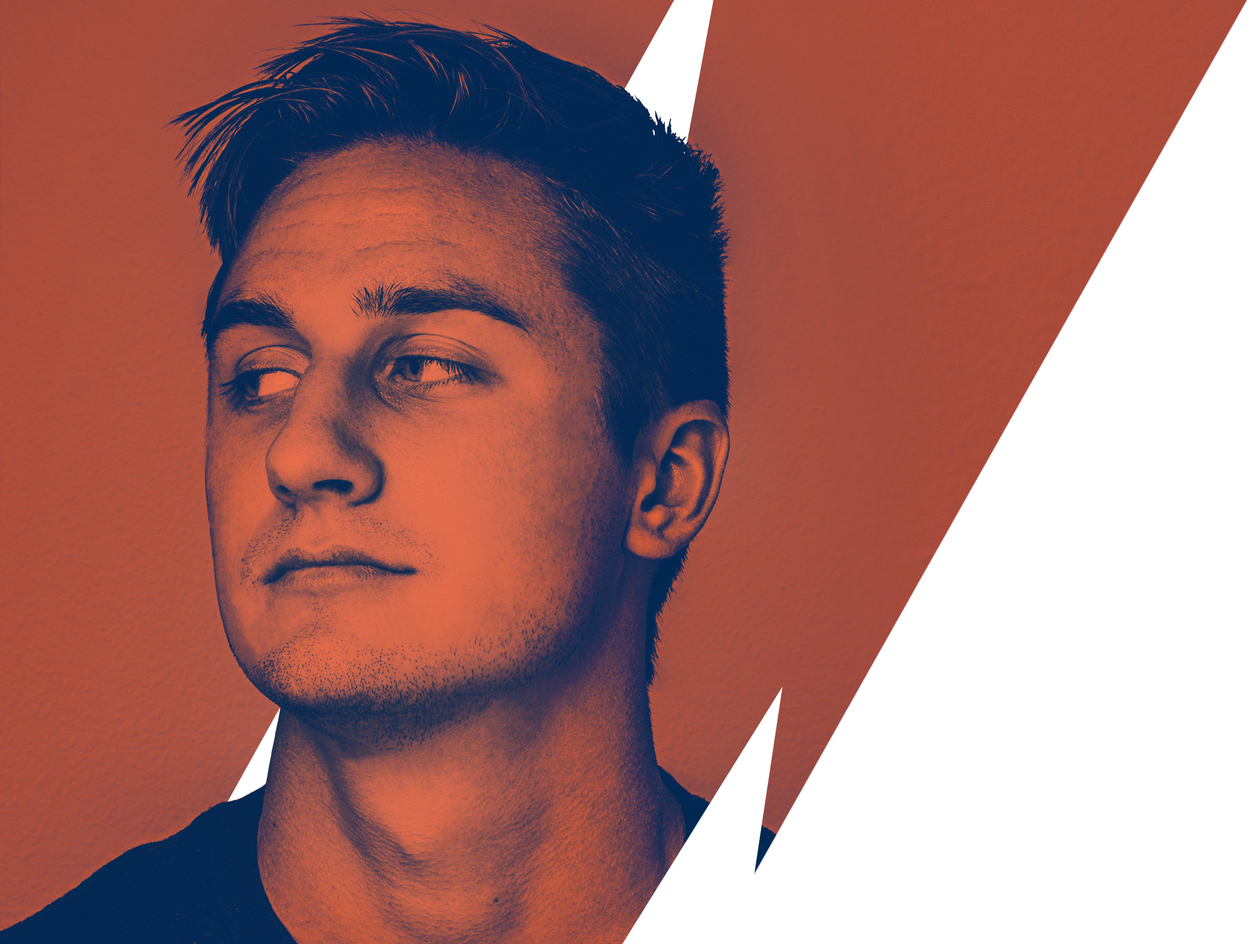
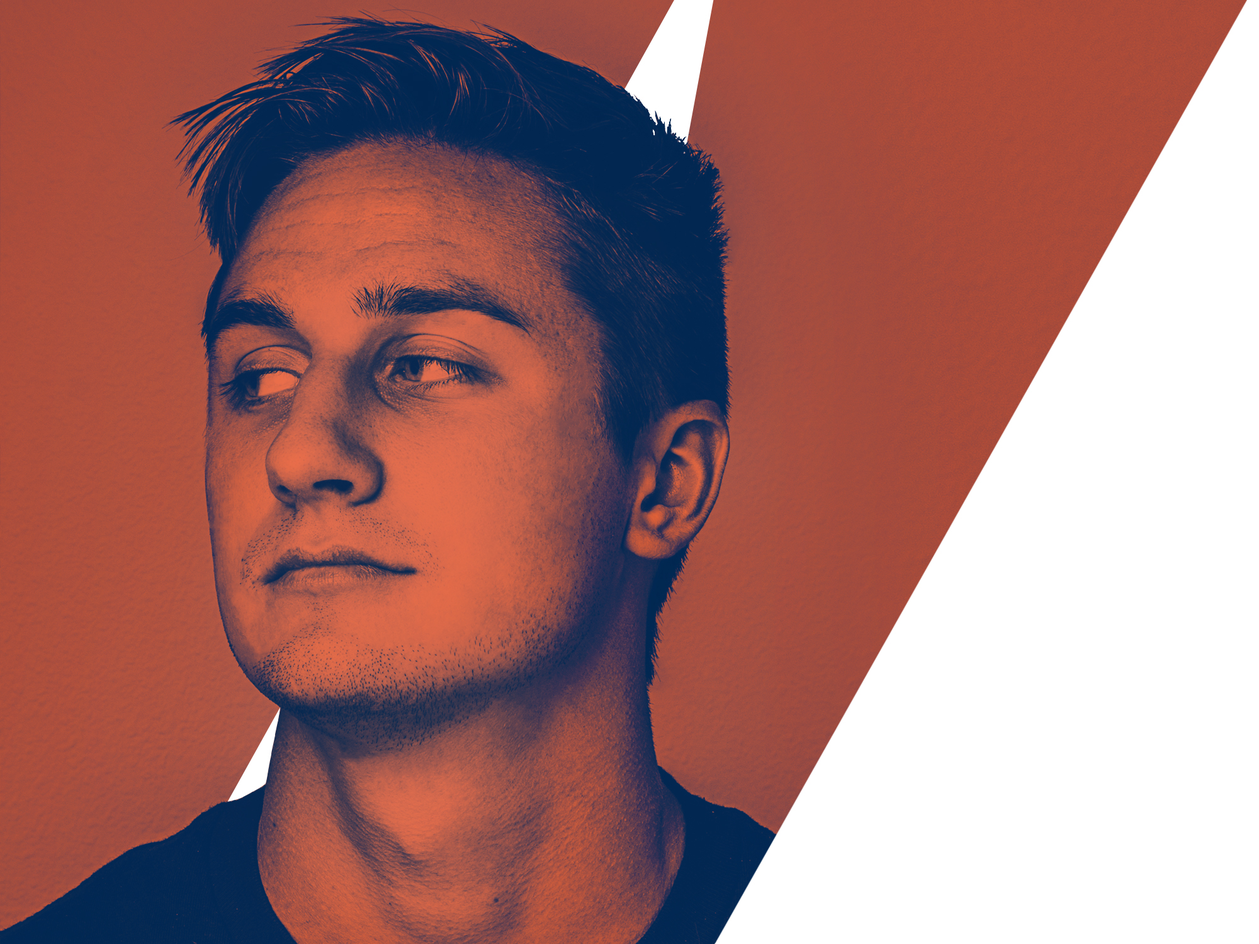
Creating custom solution for the small slice in the header that is based off of the second photo post and increased animation time for header elements

Changed region(s): [[0.496, 0.736, 0.62, 1.0]]

diff --git a/sites/all/themes/eshell/styles/styles.min.css b/sites/all/themes/eshell/styles/styles.min.css
@@ -1,2 +1,2 @@
-html,mark{color:#000}*,:after,:before,input[type=radio],input[type=checkbox]{padding:0;box-sizing:border-box}body,html{background:#fff}button,input,p,textarea{width:100%;font-size:1.2vw}li,ul{list-style:none}h1,p{color:#333}#site,.item-list,body,button,html,input,p,textarea{width:100%}.item-list,body,html,img,li,p{float:left}article,aside,details,figcaption,figure,footer,header,hgroup,nav,section,summary{display:block}audio,canvas,video{display:inline-block}audio:not([controls]){display:none;height:0}[hidden],template{display:none}html{-webkit-text-size-adjust:100%;-ms-text-size-adjust:100%}button,html,input,select,textarea{font-family:sans-serif}body,figure{margin:0}a{background:0 0;color:#07274f;text-decoration:none}a:focus{outline:dotted thin}a:active,a:hover{outline:0}h3{font-size:1.17em;margin:1em 0}h4{font-size:1em;margin:1.33em 0}h5{font-size:.83em;margin:1.67em 0}h6{font-size:.75em;margin:2.33em 0}abbr[title]{border-bottom:1px dotted}b,strong{font-weight:700}dfn{font-style:italic}mark{background:#ff0}code,kbd,pre,samp{font-family:monospace,serif;font-size:1em}pre{white-space:pre;white-space:pre-wrap;word-wrap:break-word}q{quotes:"\201C" "\201D" "\2018" "\2019"}q:after,q:before{content:'';content:none}small{font-size:80%}sub,sup{font-size:75%;line-height:0;position:relative;vertical-align:baseline}sup{top:-.5em}sub{bottom:-.25em}img{border:0;max-width:100%;height:auto}svg:not(:root){overflow:hidden}fieldset{border:1px solid silver;margin:0 2px;padding:.35em .625em .75em}legend{border:0;padding:0;white-space:normal}button,input,select,textarea{font-family:inherit;font-size:100%;margin:0;vertical-align:baseline}.node-article .node-title a,body,h1,html,p{font-family:'Lato',sans-serif}button,input{line-height:normal}button,select{text-transform:none}button,html input[type=button],input[type=reset],input[type=submit]{-webkit-appearance:button;cursor:pointer}button[disabled],input[disabled]{cursor:default}button::-moz-focus-inner,input::-moz-focus-inner{border:0;padding:0}textarea{overflow:auto;vertical-align:top}table{border-collapse:collapse;border-spacing:0}input[type=search]{-webkit-appearance:textfield;box-sizing:content-box}input[type=search]::-webkit-search-cancel-button,input[type=search]::-webkit-search-decoration{-webkit-appearance:none}*,:after,:before{margin:0}body,html{height:100%;padding:0;margin:0;font-size:16px;font-smooth:always;font-smoothing:subpixel-antialiased;text-rendering:optimizeLegibility}:focus{outline:0}#admin-menu{box-shadow:none}button,input,textarea{outline:0;border:0;padding:1vw;border-radius:3px;line-height:1.5;-webkit-appearance:none;-webkit-transition:all .2s ease;transition:all .2s ease}button:focus,button:hover,input:focus,input:hover,textarea:focus,textarea:hover{-webkit-transition:all .2s ease;transition:all .2s ease}input[type=submit]{color:#fff;background:#53b3c7;border-radius:47px;text-transform:uppercase}.form-item{margin:0 0 .5rem}h1,h2{margin:0}.form-item input{background:rgba(255,255,255,.85)}.form-item input:focus,.form-item input:hover{background:rgba(255,255,255,.95)}p{font-weight:400;line-height:2;margin:1vw 0}ul{padding:0}li{margin:auto}h1{font-size:4vw;font-weight:900;padding:.5em 0 0}h2{font-size:1.5em}.field-name-body a,.field-name-field-body a{color:#07274f;overflow:hidden;font-weight:500;position:relative;display:inline-block;outline:0;vertical-align:bottom;text-decoration:none;word-spacing:.25em;margin-right:.2em}.field-name-body a::before,.field-name-field-body a::before{content:'';position:absolute;bottom:0;left:0;z-index:-1;width:100%;height:1px;background:#07274f;-webkit-transition:-webkit-transform .2s;transition:transform .2s;-webkit-transform:scaleY(.5) translateX(-105%);-ms-transform:scaleY(.5) translateX(-105%);transform:scaleY(.5) translateX(-105%)}.field-name-body a::after,.field-name-body a::before,.field-name-field-body a::after,.field-name-field-body a::before{pointer-events:none;-webkit-backface-visibility:hidden;backface-visibility:hidden}.field-name-body a:focus::before,.field-name-body a:hover::before,.field-name-field-body a:focus::before,.field-name-field-body a:hover::before{-webkit-transform:scaleY(1) translateX(0);-ms-transform:scaleY(1) translateX(0);transform:scaleY(1) translateX(0)}#site{z-index:10;display:inline-block;height:100%}.messages{padding:1rem;background:#2e2f33;color:#f3d5ae}.messages a{color:#f3d5ae;text-decoration:underline}.messages.error{background:#e9704f;color:#fff}.messages.error a{color:#fff;text-decoration:underline}.pager{float:right;width:auto;font-size:1em;line-height:1;text-transform:capitalize;background:#fff}.pager li{float:left}.pager li.pager-current{background:#07274f;color:#fff}.pager li a{display:block;padding:1.5em;float:left;-webkit-transition:all .2s ease;transition:all .2s ease}.pager li a:active,.pager li a:hover{border:0;color:#fff;background:#07274f;-webkit-transition:all 0s ease;transition:all 0s ease}.pager .pager-current{display:block;padding:1.5em;float:left;-webkit-transition:all .2s ease;transition:all .2s ease}.pager-next,.pager-previous{display:none}#header #intro,#header #profile,.page-user-login #user-login{display:-webkit-box;display:-webkit-flex;display:-ms-flexbox}.pager-ellipsis{padding:1.5em .5em;color:#07274f}@-webkit-keyframes fadeIn{0%{opacity:0;margin-top:-.5rem}100%{opacity:1;margin-top:0}}@keyframes fadeIn{0%{opacity:0;margin-top:-.5rem}100%{opacity:1;margin-top:0}}@-webkit-keyframes fadeFromLeft{0%{opacity:0;margin-left:7.5vw}100%{opacity:1;margin-left:8vw}}@keyframes fadeFromLeft{0%{opacity:0;margin-left:7.5vw}100%{opacity:1;margin-left:8vw}}@-webkit-keyframes fadeFromRight{0%{opacity:0;margin-right:-.5rem}100%{opacity:1;margin-right:0}}@keyframes fadeFromRight{0%{opacity:0;margin-right:-.5rem}100%{opacity:1;margin-right:0}}#header{float:left;width:100%}#header #header-container{float:left;height:calc(50vw - .9375rem);width:100%;position:relative;background:#fff;overflow:hidden}#header #profile{position:absolute;z-index:1;left:0;top:0;width:66.66666%;height:50vw;display:flex;-webkit-box-align:center;-webkit-align-items:center;-ms-flex-align:center;align-items:center}#header #headshot{z-index:2;position:absolute;width:100%;height:100%;top:0;left:0}#header #logo{z-index:5;width:33.25vw;margin-left:8vw;-webkit-animation:fadeFromLeft 1s ease-in-out;animation:fadeFromLeft 1s ease-in-out}#header #intro{position:absolute;z-index:3;right:0;top:0;width:50%;height:50vw;display:flex;-webkit-box-align:center;-webkit-align-items:center;-ms-flex-align:center;align-items:center;-webkit-box-pack:center;-webkit-justify-content:center;-ms-flex-pack:center;justify-content:center;-webkit-animation:fadeFromRight 1s ease-in-out;animation:fadeFromRight 1s ease-in-out}#header #intro .content{padding:0 10vw;text-align:justify}#header #intro .content p{color:#2e2f33;font-size:1.3vw;line-height:2.2}#header #learn-more{position:absolute;bottom:22.5%;right:calc(50% - 5.25rem)}#header #learn-more a{font-size:.9rem;padding:.75rem 2.5rem;border-radius:43px;color:#fff;background:#53b3c7;text-transform:uppercase}#header #learn-more a:focus,#header #learn-more a:hover,.page-user-login{background:-webkit-linear-gradient(135deg,#07274f 0,#e9704f 100%);background:linear-gradient(-45deg,#07274f 0,#e9704f 100%)}.page-user-login #user-login{height:100%;width:100%;display:flex;-webkit-box-orient:vertical;-webkit-box-direction:normal;-webkit-flex-direction:columns;-ms-flex-direction:columns;flex-direction:columns;-webkit-box-pack:center;-webkit-justify-content:center;-ms-flex-pack:center;justify-content:center;-webkit-box-align:center;-webkit-align-items:center;-ms-flex-align:center;align-items:center;-webkit-animation:fadeIn 1s ease-in-out;animation:fadeIn 1s ease-in-out}.page-user-login #user-login>div{max-width:25rem}.page-user-login #user-login .description,.page-user-login #user-login label{display:none}.article-container{float:left;width:100%;display:-webkit-box;display:-webkit-flex;display:-ms-flexbox;display:flex}.article-content .node-filters .field-item a,.node-article .node-title a{text-transform:uppercase;overflow:hidden;color:#2e2f33;display:inline-block;outline:0;vertical-align:bottom;text-decoration:none}.node-article .node-title{float:left}.node-article .node-title a{font-weight:900;font-size:2.5vw;position:relative}.node-article .node-title a::before{content:'';position:absolute;bottom:0;left:0;width:100%;height:3px;background:#000;-webkit-transition:-webkit-transform .2s;transition:transform .2s;-webkit-transform:scaleY(.5) translateX(-105%);-ms-transform:scaleY(.5) translateX(-105%);transform:scaleY(.5) translateX(-105%)}.node-article .node-title a::after,.node-article .node-title a::before{pointer-events:none;-webkit-backface-visibility:hidden;backface-visibility:hidden}.node-article .node-title a:focus::before,.node-article .node-title a:hover::before{-webkit-transform:scaleY(1) translateX(0);-ms-transform:scaleY(1) translateX(0);transform:scaleY(1) translateX(0)}.article-content{position:relative;padding:4vw;float:left;width:50%;-webkit-box-align:stretch;-webkit-align-items:stretch;-ms-flex-align:stretch;align-items:stretch}.article-content .node-title{float:left;width:100%}.article-content .field-name-body{float:left;width:100%;text-align:justify}.article-content .node-filters{position:absolute;left:4vw;bottom:4vw;float:left}.article-content .node-filters .field-item{float:left;margin-right:1vw}.article-content .node-filters .field-item a{line-height:1.5;font-size:1.25vw;font-weight:500;position:relative}.article-content .node-filters .field-item a:before{content:'';position:absolute;bottom:0;left:0;width:100%;height:2px;background:#2e2f33;-webkit-transition:-webkit-transform .2s;transition:transform .2s;-webkit-transform:scaleY(.5) translateX(-105%);-ms-transform:scaleY(.5) translateX(-105%);transform:scaleY(.5) translateX(-105%)}.article-content .node-filters .field-item a:after,.article-content .node-filters .field-item a:before{pointer-events:none;-webkit-backface-visibility:hidden;backface-visibility:hidden}.article-content .node-filters .field-item a:focus:before,.article-content .node-filters .field-item a:hover:before{-webkit-transform:scaleY(1) translateX(0);-ms-transform:scaleY(1) translateX(0);transform:scaleY(1) translateX(0)}.article-content .node-filters .field-item:last-child{margin-right:0}.article-image{position:relative;float:left;width:50%}.article-image img{width:100%;float:left}.node-readmore{position:absolute;padding:0;bottom:0;text-align:center;transition:all .2s ease-in-out}.node-readmore,.node-readmore a{width:100%;margin:0;height:100%;-webkit-transition:all .2s ease-in-out}.node-readmore a{opacity:0;padding-top:30%;font-size:4vw;font-weight:900;text-transform:uppercase;float:left;border:0;transition:all .2s ease-in-out}.node-readmore span{display:none}.node-readmore:hover{background:rgba(255,255,255,.8);-webkit-transition:all 0s ease-in-out;transition:all 0s ease-in-out}.node-readmore:hover a{opacity:1;text-align:center;transition:all .2s ease-in-out}.node-readmore:hover a,ul.flippy li a{-webkit-transition:all .2s ease-in-out}.node-article{float:left;width:100%}.node-type-article article{float:none;margin:auto;max-width:1300px;padding-bottom:.75em}.field-name-field-video{float:left;width:100%;margin:.5em 0 0}.node-article.view-mode-full #article-header{padding:0 18vw}.node-article.view-mode-full #article-header .node-title{float:left}.node-article.view-mode-full #article-header .submitted{float:right;font-size:1.3vw;margin-top:.5em;text-transform:uppercase}.node-article.view-mode-full p{font-size:1.3vw;text-align:justify;padding:0 18vw}#article-filters{float:left;width:100%;background:#2e2f33;padding:2em;display:-webkit-box;display:-webkit-flex;display:-ms-flexbox;display:flex;-webkit-box-orient:horizontal;-webkit-box-direction:normal;-webkit-flex-direction:row;-ms-flex-direction:row;flex-direction:row;-webkit-flex-wrap:wrap;-ms-flex-wrap:wrap;flex-wrap:wrap;-webkit-box-pack:center;-webkit-justify-content:center;-ms-flex-pack:center;justify-content:center;-webkit-align-content:center;-ms-flex-line-pack:center;align-content:center;-webkit-box-align:center;-webkit-align-items:center;-ms-flex-align:center;align-items:center}#article-filters .field-name-field-media-type,#article-filters .field-name-field-tags{float:left}#article-filters .group-filters{width:auto}#article-filters .group-filters .field-item{margin-right:1.5em}#article-filters .group-filters .field-item a{color:#fff;font-size:1.3em}#article-filters .group-filters .field-item a::before{background:#fff}ul.flippy{float:left;width:100%}ul.flippy li{padding:0;margin:0;float:left;width:50%}ul.flippy li a{color:#fff;background:#07274f;text-align:center;font-size:1.3vw;padding:1.5em;float:left;width:100%;transition:all .2s ease-in-out}ul.flippy li a:hover{background:#efefef;color:#000;-webkit-transition:all 0s ease-in-out;transition:all 0s ease-in-out}ul.flippy li.prev{float:right}.view-photos .node-photo{float:left;width:33.333%}.view-photos .photo-container{position:relative;overflow:hidden}.view-photos .photo-container:focus .photo-title,.view-photos .photo-container:hover .photo-title{bottom:0;-webkit-transition:.1s all ease-in-out;transition:.1s all ease-in-out}.view-photos .photo-title{position:absolute;width:100%;padding:1rem;background:rgba(255,255,255,.8);font-size:1rem;font-weight:900;font-family:'Lato';left:0;bottom:-4rem;text-transform:uppercase;-webkit-transition:.2s all ease-in-out;transition:.2s all ease-in-out}
+html,mark{color:#000}*,:after,:before,input[type=radio],input[type=checkbox]{padding:0;box-sizing:border-box}body,html{background:#fff}button,input,p,textarea{width:100%;font-size:1.2vw}li,ul{list-style:none}h1,p{color:#333}#site,.item-list,body,button,html,input,p,textarea{width:100%}.item-list,body,html,img,li,p{float:left}article,aside,details,figcaption,figure,footer,header,hgroup,nav,section,summary{display:block}audio,canvas,video{display:inline-block}audio:not([controls]){display:none;height:0}[hidden],template{display:none}html{-webkit-text-size-adjust:100%;-ms-text-size-adjust:100%}button,html,input,select,textarea{font-family:sans-serif}body,figure{margin:0}a{background:0 0;color:#07274f;text-decoration:none}a:focus{outline:dotted thin}a:active,a:hover{outline:0}h3{font-size:1.17em;margin:1em 0}h4{font-size:1em;margin:1.33em 0}h5{font-size:.83em;margin:1.67em 0}h6{font-size:.75em;margin:2.33em 0}abbr[title]{border-bottom:1px dotted}b,strong{font-weight:700}dfn{font-style:italic}mark{background:#ff0}code,kbd,pre,samp{font-family:monospace,serif;font-size:1em}pre{white-space:pre;white-space:pre-wrap;word-wrap:break-word}q{quotes:"\201C" "\201D" "\2018" "\2019"}q:after,q:before{content:'';content:none}small{font-size:80%}sub,sup{font-size:75%;line-height:0;position:relative;vertical-align:baseline}sup{top:-.5em}sub{bottom:-.25em}img{border:0;max-width:100%;height:auto}svg:not(:root){overflow:hidden}fieldset{border:1px solid silver;margin:0 2px;padding:.35em .625em .75em}legend{border:0;padding:0;white-space:normal}button,input,select,textarea{font-family:inherit;font-size:100%;margin:0;vertical-align:baseline}.node-article .node-title a,body,h1,html,p{font-family:'Lato',sans-serif}button,input{line-height:normal}button,select{text-transform:none}button,html input[type=button],input[type=reset],input[type=submit]{-webkit-appearance:button;cursor:pointer}button[disabled],input[disabled]{cursor:default}button::-moz-focus-inner,input::-moz-focus-inner{border:0;padding:0}textarea{overflow:auto;vertical-align:top}table{border-collapse:collapse;border-spacing:0}input[type=search]{-webkit-appearance:textfield;box-sizing:content-box}input[type=search]::-webkit-search-cancel-button,input[type=search]::-webkit-search-decoration{-webkit-appearance:none}*,:after,:before{margin:0}body,html{height:100%;padding:0;margin:0;font-size:16px;font-smooth:always;font-smoothing:subpixel-antialiased;text-rendering:optimizeLegibility}:focus{outline:0}#admin-menu{box-shadow:none}button,input,textarea{outline:0;border:0;padding:1vw;border-radius:3px;line-height:1.5;-webkit-appearance:none;-webkit-transition:all .2s ease;transition:all .2s ease}button:focus,button:hover,input:focus,input:hover,textarea:focus,textarea:hover{-webkit-transition:all .2s ease;transition:all .2s ease}input[type=submit]{color:#fff;background:#53b3c7;border-radius:47px;text-transform:uppercase}.form-item{margin:0 0 .5rem}h1,h2{margin:0}.form-item input{background:rgba(255,255,255,.85)}.form-item input:focus,.form-item input:hover{background:rgba(255,255,255,.95)}p{font-weight:400;line-height:2;margin:1vw 0}ul{padding:0}li{margin:auto}h1{font-size:4vw;font-weight:900;padding:.5em 0 0}h2{font-size:1.5em}.field-name-body a,.field-name-field-body a{color:#07274f;overflow:hidden;font-weight:500;position:relative;display:inline-block;outline:0;vertical-align:bottom;text-decoration:none;word-spacing:.25em;margin-right:.2em}.field-name-body a::before,.field-name-field-body a::before{content:'';position:absolute;bottom:0;left:0;z-index:-1;width:100%;height:1px;background:#07274f;-webkit-transition:-webkit-transform .2s;transition:transform .2s;-webkit-transform:scaleY(.5) translateX(-105%);-ms-transform:scaleY(.5) translateX(-105%);transform:scaleY(.5) translateX(-105%)}.field-name-body a::after,.field-name-body a::before,.field-name-field-body a::after,.field-name-field-body a::before{pointer-events:none;-webkit-backface-visibility:hidden;backface-visibility:hidden}.field-name-body a:focus::before,.field-name-body a:hover::before,.field-name-field-body a:focus::before,.field-name-field-body a:hover::before{-webkit-transform:scaleY(1) translateX(0);-ms-transform:scaleY(1) translateX(0);transform:scaleY(1) translateX(0)}#site{z-index:10;display:inline-block;height:100%}.messages{padding:1rem;background:#2e2f33;color:#f3d5ae}.messages a{color:#f3d5ae;text-decoration:underline}.messages.error{background:#e9704f;color:#fff}.messages.error a{color:#fff;text-decoration:underline}.pager{float:right;width:auto;font-size:1em;line-height:1;text-transform:capitalize;background:#fff}.pager li{float:left}.pager li.pager-current{background:#07274f;color:#fff}.pager li a{display:block;padding:1.5em;float:left;-webkit-transition:all .2s ease;transition:all .2s ease}.pager li a:active,.pager li a:hover{border:0;color:#fff;background:#07274f;-webkit-transition:all 0s ease;transition:all 0s ease}.pager .pager-current{display:block;padding:1.5em;float:left;-webkit-transition:all .2s ease;transition:all .2s ease}.pager-next,.pager-previous{display:none}#header #intro,#header #profile,.page-user-login #user-login{display:-webkit-box;display:-webkit-flex;display:-ms-flexbox}.pager-ellipsis{padding:1.5em .5em;color:#07274f}@-webkit-keyframes fadeIn{0%{opacity:0;margin-top:-.5rem}100%{opacity:1;margin-top:0}}@keyframes fadeIn{0%{opacity:0;margin-top:-.5rem}100%{opacity:1;margin-top:0}}@-webkit-keyframes fadeFromLeft{0%{opacity:0;margin-left:7.5vw}100%{opacity:1;margin-left:8vw}}@keyframes fadeFromLeft{0%{opacity:0;margin-left:7.5vw}100%{opacity:1;margin-left:8vw}}@-webkit-keyframes fadeFromRight{0%{opacity:0;margin-right:-.5rem}100%{opacity:1;margin-right:0}}@keyframes fadeFromRight{0%{opacity:0;margin-right:-.5rem}100%{opacity:1;margin-right:0}}#header{float:left;width:100%}#header #header-container{float:left;height:calc(50vw - .9375rem);width:100%;position:relative;background:#fff;overflow:hidden}#header #profile{position:absolute;z-index:1;left:0;top:0;width:66.66666%;height:50vw;display:flex;-webkit-box-align:center;-webkit-align-items:center;-ms-flex-align:center;align-items:center}#header #headshot{z-index:2;position:absolute;width:100%;height:100%;top:0;left:0}#header #logo{z-index:5;width:33.25vw;margin-left:8vw;-webkit-animation:fadeFromLeft 1.5s ease-in-out;animation:fadeFromLeft 1.5s ease-in-out}#header #intro{position:absolute;z-index:3;right:0;top:0;width:50%;height:50vw;display:flex;-webkit-box-align:center;-webkit-align-items:center;-ms-flex-align:center;align-items:center;-webkit-box-pack:center;-webkit-justify-content:center;-ms-flex-pack:center;justify-content:center;-webkit-animation:fadeFromRight 1.5s ease-in-out;animation:fadeFromRight 1.5s ease-in-out}#header #intro .content{padding:0 10vw;text-align:justify}#header #intro .content p{color:#2e2f33;font-size:1.3vw;line-height:2.2}#header #learn-more{position:absolute;bottom:22.5%;right:calc(50% - 5.25rem)}#header #learn-more a{font-size:.9rem;padding:.75rem 2.5rem;border-radius:43px;color:#fff;background:#53b3c7;text-transform:uppercase}#header #learn-more a:focus,#header #learn-more a:hover{background:-webkit-linear-gradient(135deg,#07274f 0,#e9704f 100%);background:linear-gradient(-45deg,#07274f 0,#e9704f 100%)}.views-row-2 .photo-teaser:before{content:'';float:left;width:0;height:0;border-style:solid;border-width:0 0 14vw 6.25vw;border-color:transparent transparent #fff;position:absolute;top:-13.95vw;left:0;z-index:20;-webkit-transform:rotate(8deg);-ms-transform:rotate(8deg);transform:rotate(8deg);-webkit-transform-origin:left bottom;-ms-transform-origin:left bottom;transform-origin:left bottom}.page-user-login{background:-webkit-linear-gradient(135deg,#07274f 0,#e9704f 100%);background:linear-gradient(-45deg,#07274f 0,#e9704f 100%)}.page-user-login #user-login{height:100%;width:100%;display:flex;-webkit-box-orient:vertical;-webkit-box-direction:normal;-webkit-flex-direction:columns;-ms-flex-direction:columns;flex-direction:columns;-webkit-box-pack:center;-webkit-justify-content:center;-ms-flex-pack:center;justify-content:center;-webkit-box-align:center;-webkit-align-items:center;-ms-flex-align:center;align-items:center;-webkit-animation:fadeIn 1s ease-in-out;animation:fadeIn 1s ease-in-out}.page-user-login #user-login>div{max-width:25rem}.page-user-login #user-login .description,.page-user-login #user-login label{display:none}.article-container{float:left;width:100%;display:-webkit-box;display:-webkit-flex;display:-ms-flexbox;display:flex}.article-content .node-filters .field-item a,.node-article .node-title a{text-transform:uppercase;overflow:hidden;color:#2e2f33;display:inline-block;outline:0;vertical-align:bottom;text-decoration:none}.node-article .node-title{float:left}.node-article .node-title a{font-weight:900;font-size:2.5vw;position:relative}.node-article .node-title a::before{content:'';position:absolute;bottom:0;left:0;width:100%;height:3px;background:#000;-webkit-transition:-webkit-transform .2s;transition:transform .2s;-webkit-transform:scaleY(.5) translateX(-105%);-ms-transform:scaleY(.5) translateX(-105%);transform:scaleY(.5) translateX(-105%)}.node-article .node-title a::after,.node-article .node-title a::before{pointer-events:none;-webkit-backface-visibility:hidden;backface-visibility:hidden}.node-article .node-title a:focus::before,.node-article .node-title a:hover::before{-webkit-transform:scaleY(1) translateX(0);-ms-transform:scaleY(1) translateX(0);transform:scaleY(1) translateX(0)}.article-content{position:relative;padding:4vw;float:left;width:50%;-webkit-box-align:stretch;-webkit-align-items:stretch;-ms-flex-align:stretch;align-items:stretch}.article-content .node-title{float:left;width:100%}.article-content .field-name-body{float:left;width:100%;text-align:justify}.article-content .node-filters{position:absolute;left:4vw;bottom:4vw;float:left}.article-content .node-filters .field-item{float:left;margin-right:1vw}.article-content .node-filters .field-item a{line-height:1.5;font-size:1.25vw;font-weight:500;position:relative}.article-content .node-filters .field-item a:before{content:'';position:absolute;bottom:0;left:0;width:100%;height:2px;background:#2e2f33;-webkit-transition:-webkit-transform .2s;transition:transform .2s;-webkit-transform:scaleY(.5) translateX(-105%);-ms-transform:scaleY(.5) translateX(-105%);transform:scaleY(.5) translateX(-105%)}.article-content .node-filters .field-item a:after,.article-content .node-filters .field-item a:before{pointer-events:none;-webkit-backface-visibility:hidden;backface-visibility:hidden}.article-content .node-filters .field-item a:focus:before,.article-content .node-filters .field-item a:hover:before{-webkit-transform:scaleY(1) translateX(0);-ms-transform:scaleY(1) translateX(0);transform:scaleY(1) translateX(0)}.article-content .node-filters .field-item:last-child{margin-right:0}.article-image{position:relative;float:left;width:50%}.article-image img{width:100%;float:left}.node-readmore{position:absolute;padding:0;bottom:0;text-align:center;transition:all .2s ease-in-out}.node-readmore,.node-readmore a{width:100%;margin:0;height:100%;-webkit-transition:all .2s ease-in-out}.node-readmore a{opacity:0;padding-top:30%;font-size:4vw;font-weight:900;text-transform:uppercase;float:left;border:0;transition:all .2s ease-in-out}.node-readmore span{display:none}.node-readmore:hover{background:rgba(255,255,255,.8);-webkit-transition:all 0s ease-in-out;transition:all 0s ease-in-out}.node-readmore:hover a{opacity:1;text-align:center;transition:all .2s ease-in-out}.node-readmore:hover a,ul.flippy li a{-webkit-transition:all .2s ease-in-out}.node-article{float:left;width:100%}.node-type-article article{float:none;margin:auto;max-width:1300px;padding-bottom:.75em}.field-name-field-video{float:left;width:100%;margin:.5em 0 0}.node-article.view-mode-full #article-header{padding:0 18vw}.node-article.view-mode-full #article-header .node-title{float:left}.node-article.view-mode-full #article-header .submitted{float:right;font-size:1.3vw;margin-top:.5em;text-transform:uppercase}.node-article.view-mode-full p{font-size:1.3vw;text-align:justify;padding:0 18vw}#article-filters{float:left;width:100%;background:#2e2f33;padding:2em;display:-webkit-box;display:-webkit-flex;display:-ms-flexbox;display:flex;-webkit-box-orient:horizontal;-webkit-box-direction:normal;-webkit-flex-direction:row;-ms-flex-direction:row;flex-direction:row;-webkit-flex-wrap:wrap;-ms-flex-wrap:wrap;flex-wrap:wrap;-webkit-box-pack:center;-webkit-justify-content:center;-ms-flex-pack:center;justify-content:center;-webkit-align-content:center;-ms-flex-line-pack:center;align-content:center;-webkit-box-align:center;-webkit-align-items:center;-ms-flex-align:center;align-items:center}#article-filters .field-name-field-media-type,#article-filters .field-name-field-tags{float:left}#article-filters .group-filters{width:auto}#article-filters .group-filters .field-item{margin-right:1.5em}#article-filters .group-filters .field-item a{color:#fff;font-size:1.3em}#article-filters .group-filters .field-item a::before{background:#fff}ul.flippy{float:left;width:100%}ul.flippy li{padding:0;margin:0;float:left;width:50%}ul.flippy li a{color:#fff;background:#07274f;text-align:center;font-size:1.3vw;padding:1.5em;float:left;width:100%;transition:all .2s ease-in-out}ul.flippy li a:hover{background:#efefef;color:#000;-webkit-transition:all 0s ease-in-out;transition:all 0s ease-in-out}ul.flippy li.prev{float:right}.view-photos .node-photo{float:left;width:33.333%}.view-photos .photo-container{position:relative;overflow:hidden;z-index:30}.view-photos .photo-container:focus .photo-title,.view-photos .photo-container:hover .photo-title{bottom:0;-webkit-transition:.1s all ease-in-out;transition:.1s all ease-in-out}.view-photos .photo-title{position:absolute;width:100%;padding:1rem;background:rgba(255,255,255,.8);font-size:1rem;font-weight:900;font-family:'Lato';left:0;bottom:-4rem;text-transform:uppercase;-webkit-transition:.2s all ease-in-out;transition:.2s all ease-in-out}
 /*# sourceMappingURL=styles.min.css.map */

diff --git a/sites/all/themes/eshell/styles/scss/layout/_header.scss b/sites/all/themes/eshell/styles/scss/layout/_header.scss
@@ -36,7 +36,7 @@
     z-index: 5;
     width: 33.25vw;
     margin-left: 8vw;
-    animation: fadeFromLeft 1s ease-in-out;
+    animation: fadeFromLeft 1.5s ease-in-out;
   }
 
   // Intro
@@ -50,7 +50,7 @@
     display: flex;
     align-items: center;
     justify-content: center;
-    animation: fadeFromRight 1s ease-in-out;
+    animation: fadeFromRight 1.5s ease-in-out;
     .content{
       padding: 0 10vw;
       text-align: justify;
@@ -67,4 +67,22 @@
     right: calc(50% - 5.25rem);
     @include cta;
   }
+}
+
+// Small slice custom positioning
+// Calculated from second photo post
+.views-row-2 .photo-teaser:before {
+  content: '';
+  float: left;
+  width: 0;
+  height: 0;
+  border-style: solid;
+  border-width: 0 0 14vw 6.25vw;
+  border-color: transparent transparent #fff transparent;
+  position: absolute;
+  top: -13.95vw;
+  left: 0;
+  z-index: 20;
+  transform: rotate(8deg);
+  transform-origin: left bottom;
 }

diff --git a/sites/all/themes/eshell/styles/scss/feature/_photo.scss b/sites/all/themes/eshell/styles/scss/feature/_photo.scss
@@ -11,6 +11,7 @@
   .photo-container{
     position: relative;
     overflow: hidden;
+    z-index: 30;
     &:hover,
     &:focus{
       .photo-title{
